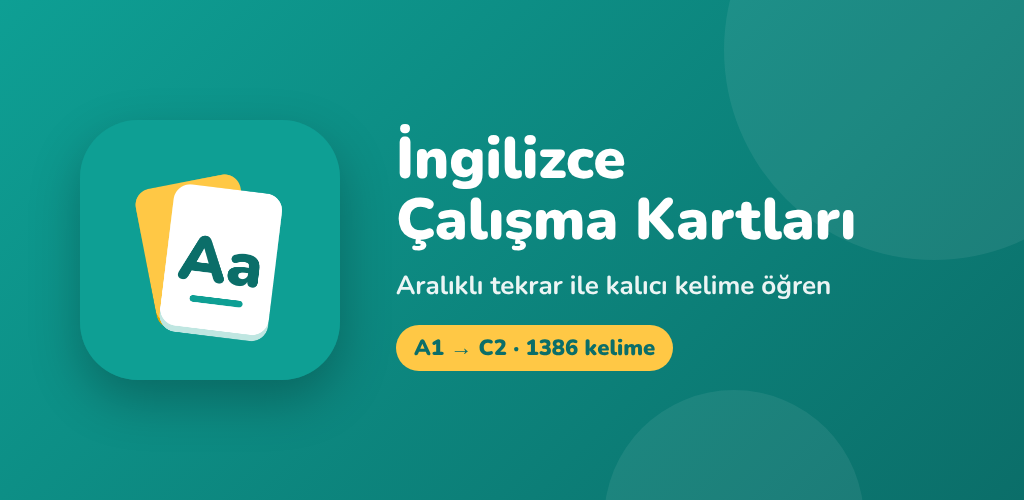
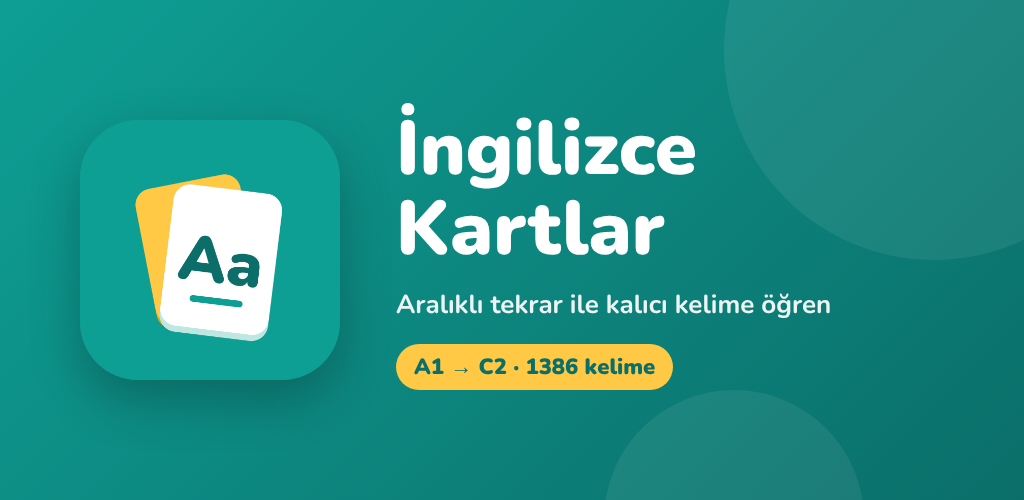
Uygulama adı: İngilizce Kartlar
Claude-Session: https://claude.ai/code/session_01GU8uYh3sDTMyAoALWoNYWb

Changed region(s): [[0.375, 0.54, 0.8125, 0.78], [0.375, 0.21, 0.8438, 0.51]]

diff --git a/lib/config/app_config.dart b/lib/config/app_config.dart
@@ -17,7 +17,7 @@ import 'package:flutter/foundation.dart';
 class AppConfig {
   AppConfig._();
 
-  static const appName = 'İngilizce Çalışma Kartları';
+  static const appName = 'İngilizce Kartlar';
 
   // --- Ücretsiz kullanım kuralları ---
   static const dailyFreeWords = 20;

diff --git a/store/listing.md b/store/listing.md
@@ -1,6 +1,6 @@
 # Google Play mağaza girişi (Türkçe)
 
-**Uygulama adı (en fazla 30):** İngilizce Çalışma Kartları
+**Uygulama adı (en fazla 30):** İngilizce Kartlar
 
 **Kısa açıklama (en fazla 80):** A1'den C2'ye 1386 İngilizce kelime. Aralıklı tekrar ile kalıcı öğren.
 
@@ -8,7 +8,7 @@
 
 İngilizce kelime öğrenmenin en kolay yolu: her gün birkaç dakika, akıllı kartlarla.
 
-İngilizce Çalışma Kartları, Türkçe konuşanlar için hazırlandı. A1'den C2'ye altı seviyede 1386 kelime, Türkçe karşılıkları ve örnek cümleleriyle seni bekliyor.
+İngilizce Kartlar, Türkçe konuşanlar için hazırlandı. A1'den C2'ye altı seviyede 1386 kelime, Türkçe karşılıkları ve örnek cümleleriyle seni bekliyor.
 
 NASIL ÇALIŞIR?
 • Kelimeyi gör, Türkçesini yaz. Uygulama cevabını kontrol eder.

diff --git a/README.md b/README.md
@@ -1,4 +1,4 @@
-# İngilizce Çalışma Kartları
+# İngilizce Kartlar
 
 Türkçe konuşanlar için İngilizce kelime kartları uygulaması (Flutter — Android + iOS).
 
